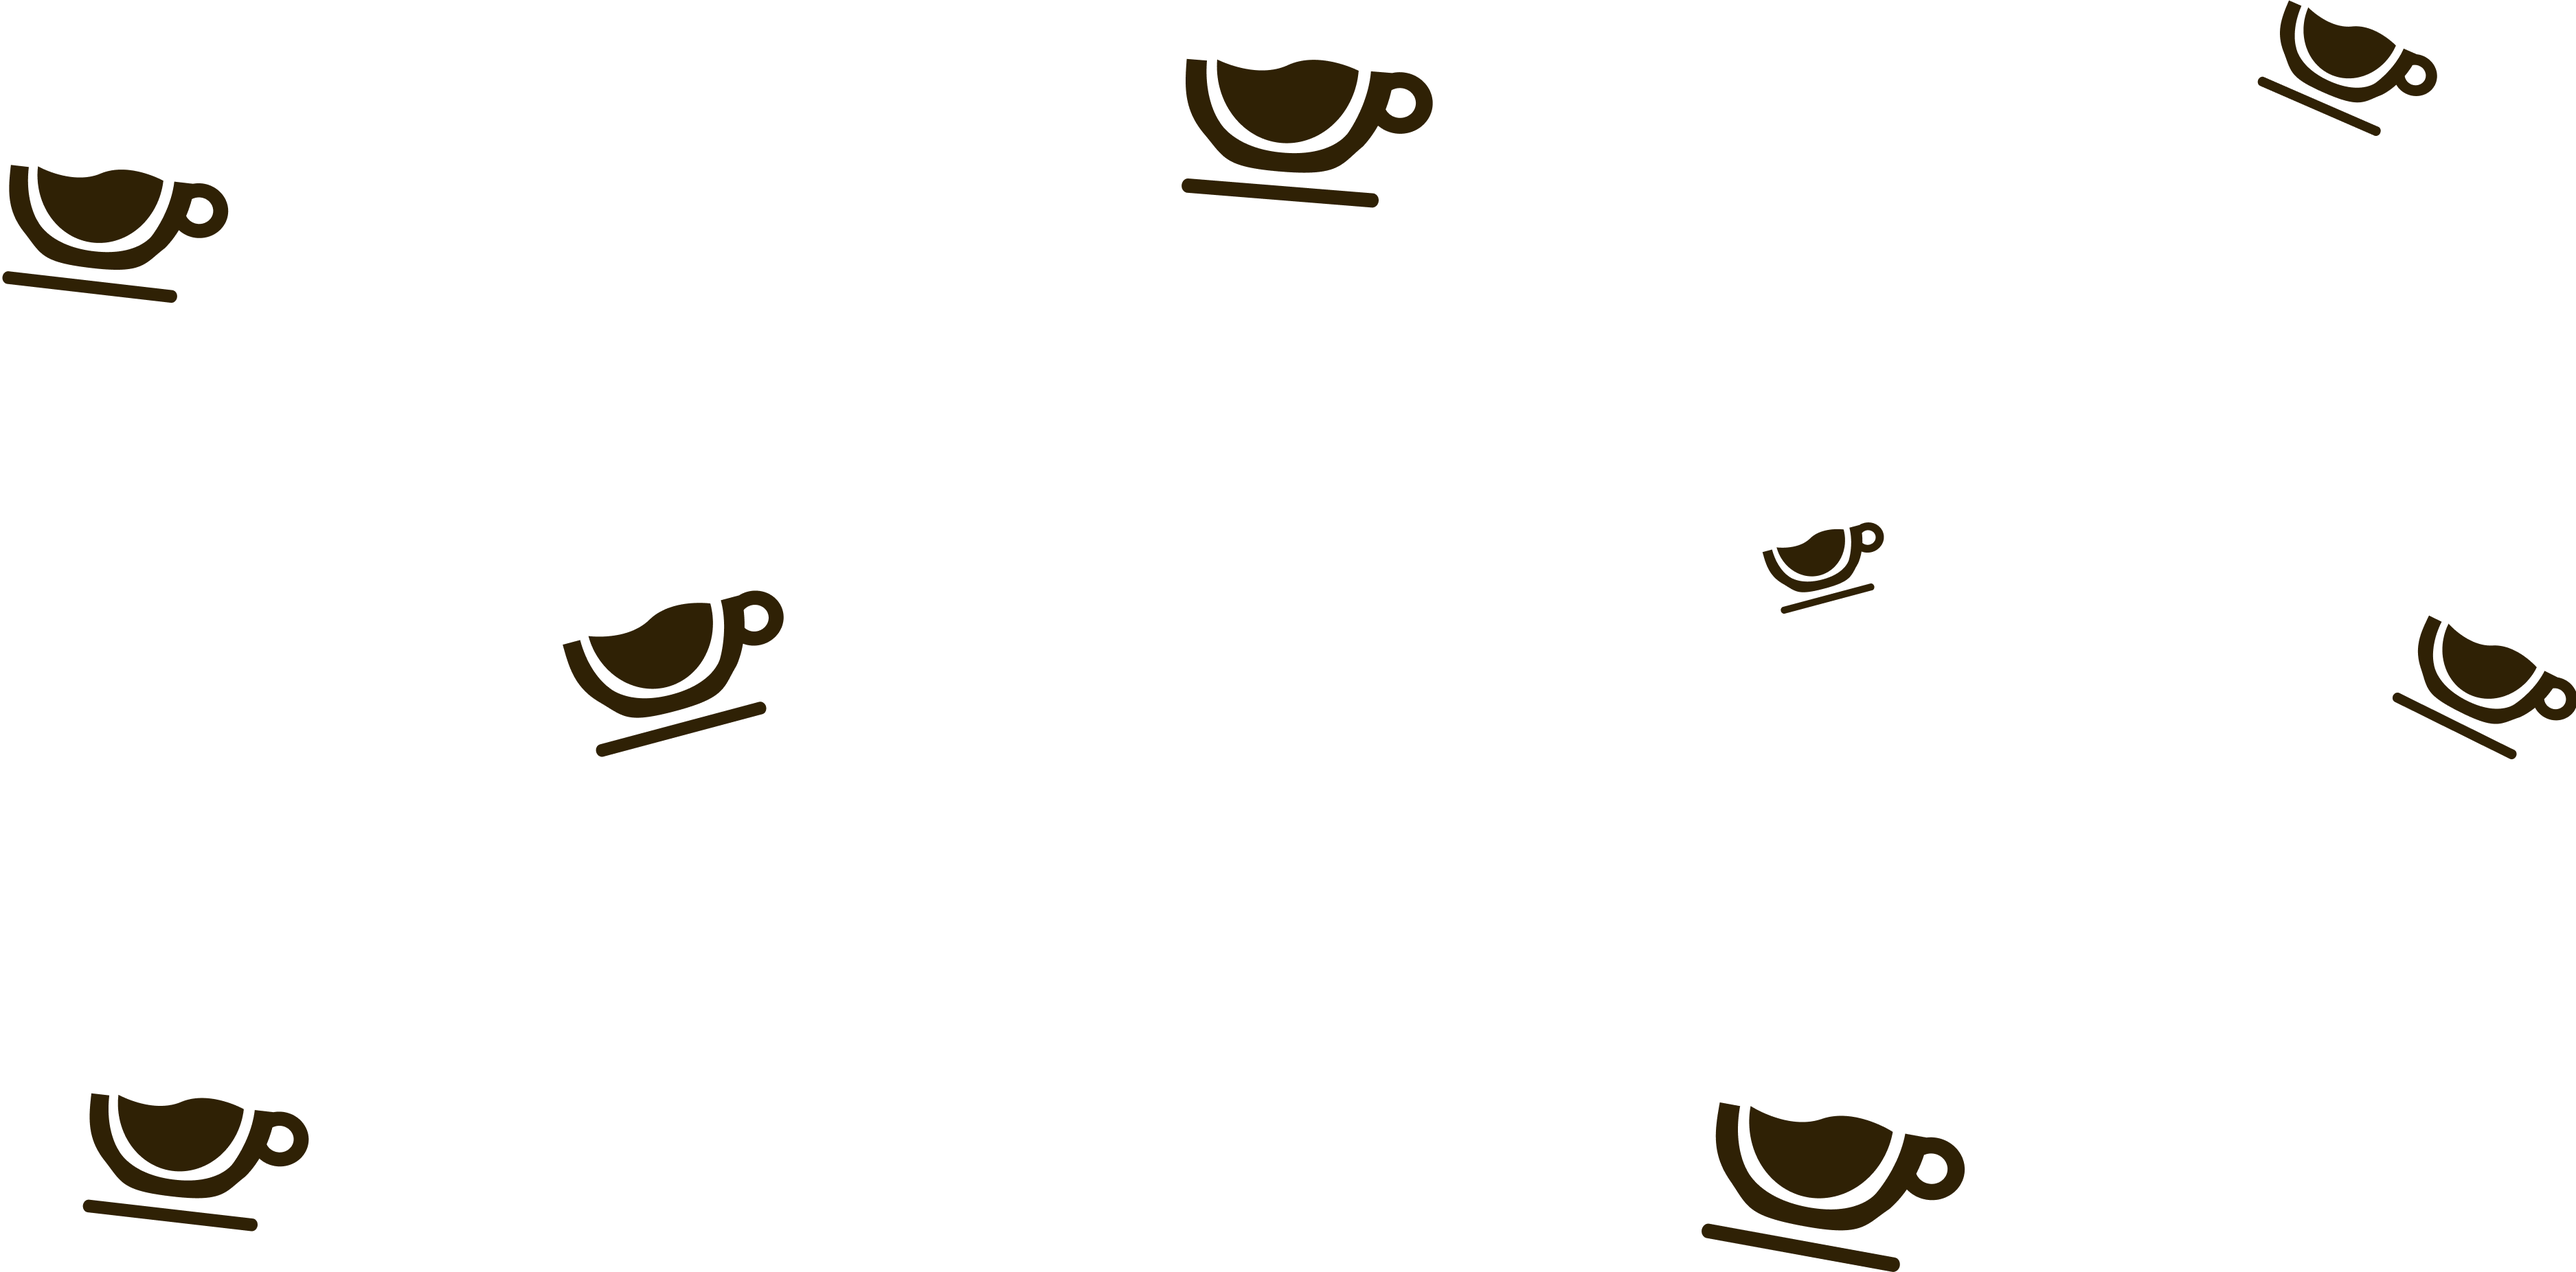
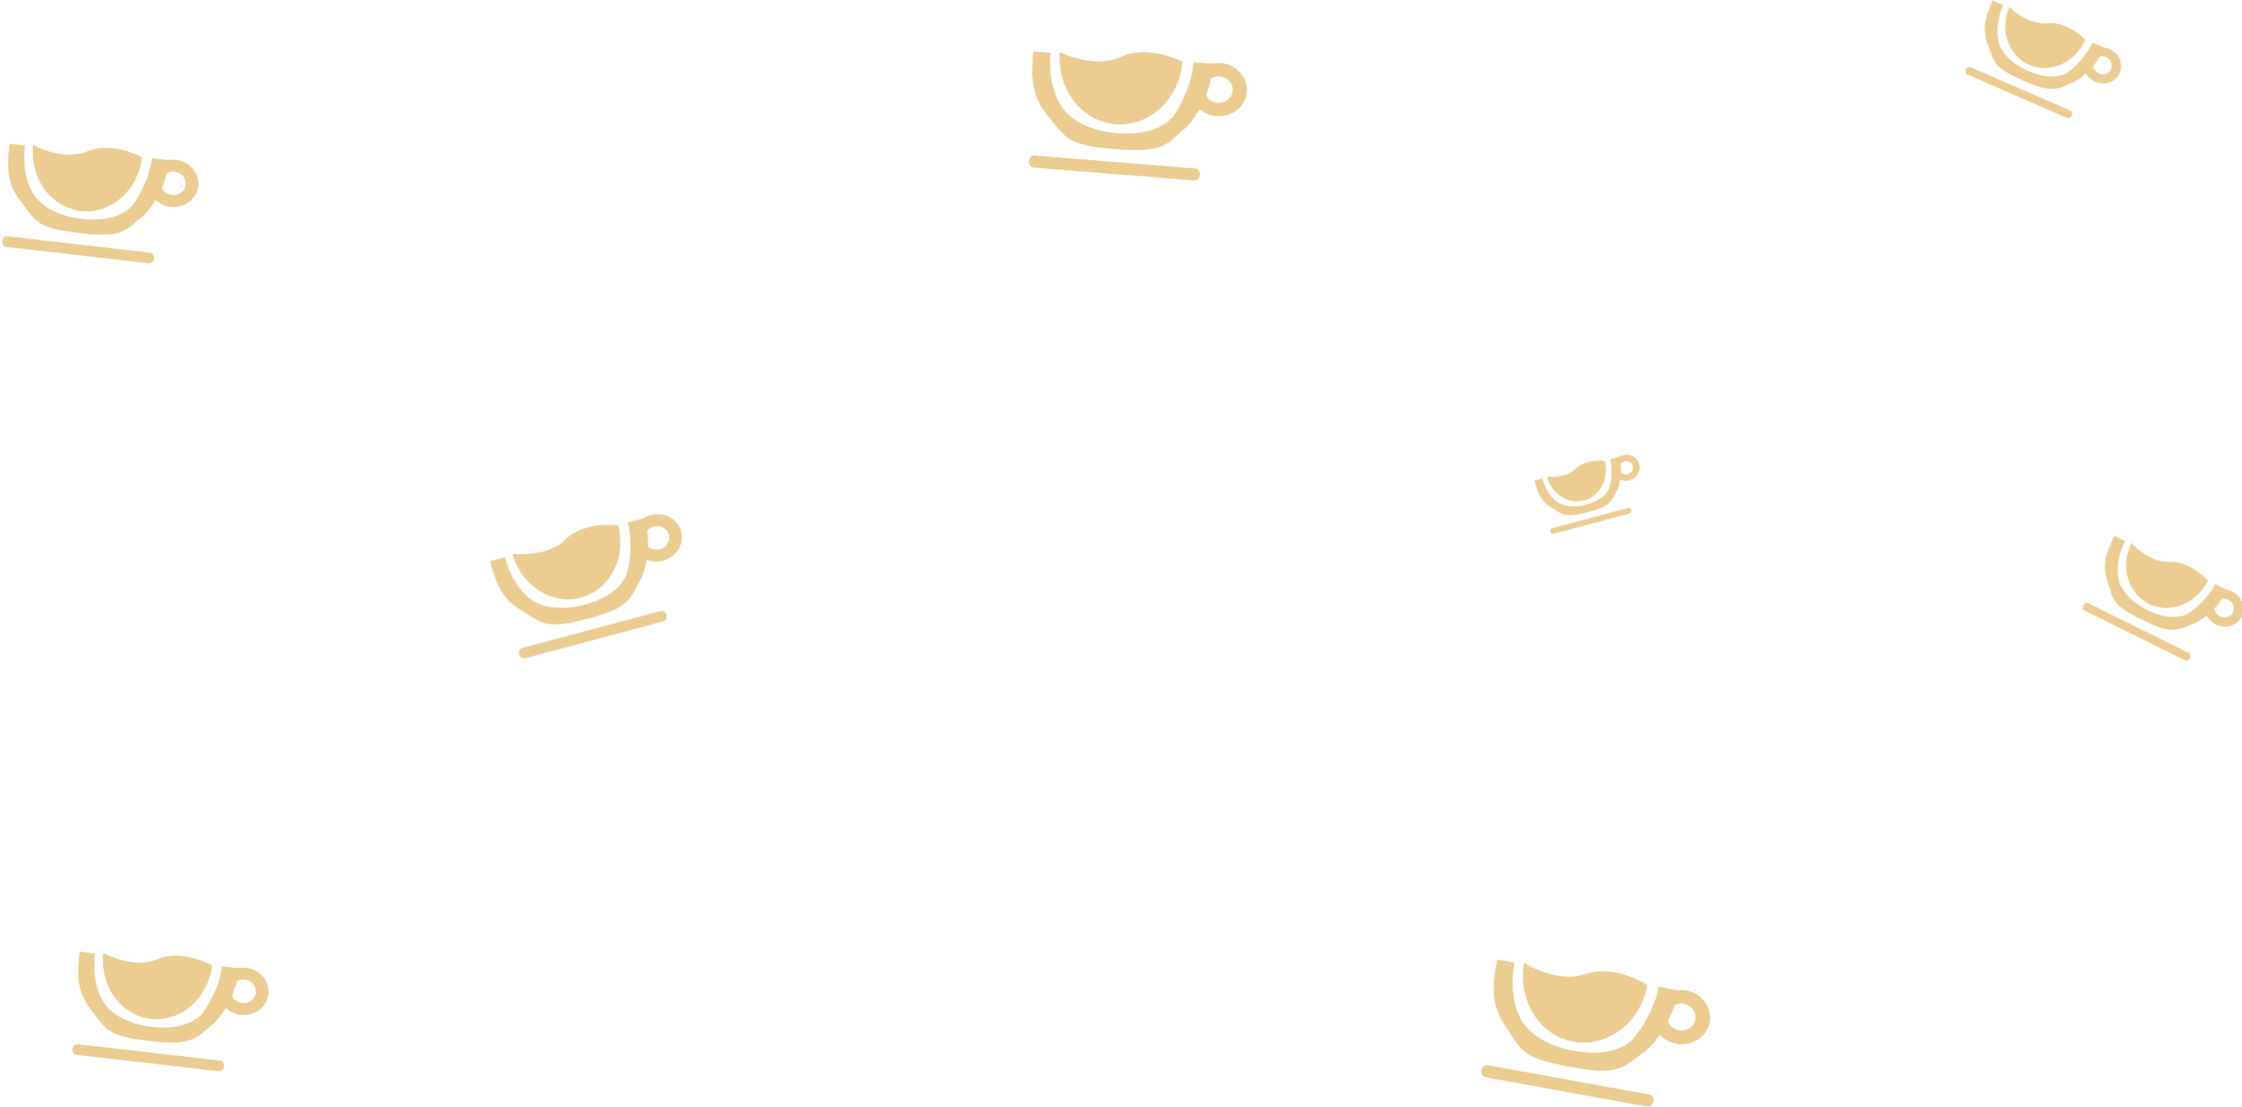
commit2

diff --git a/index.html b/index.html
@@ -11,17 +11,18 @@
     <main class="overflow-hidden">
       <!-- ABOUT PREVIEW -->
       <img
-        class="-z-50 left-0 top-10 absolute bg-blend-overlay bg-[#FFCB7C] p-2 rounded-r-3xl opacity-20"
+        class="-z-50 left-0 top-10 absolute  bg-[#fbe0b8] p-2 rounded-r-3xl"
         src="./assets/Images/Images/bg-testimonial.png"
         width="950px"
         alt=""
+        style="filter:opacity(50%);"
       />
-      <div class="z-10 flex items-center justify-between my-32 ml-20 mr-2">
+      <div class="z-10 flex items-center justify-between mb-32 mt-36 ml-[50px] mr-2">
         <div class="ml-24">
           <h1 class="mb-3 text-3xl font-bold tracking-wide">
             What they say about us
           </h1>
-          <p class="text-slate-400">
+          <p class="font-semibold text-slate-700">
             We always provide the best service <br />and always maintain the
             quality of<br />coffee
           </p>
